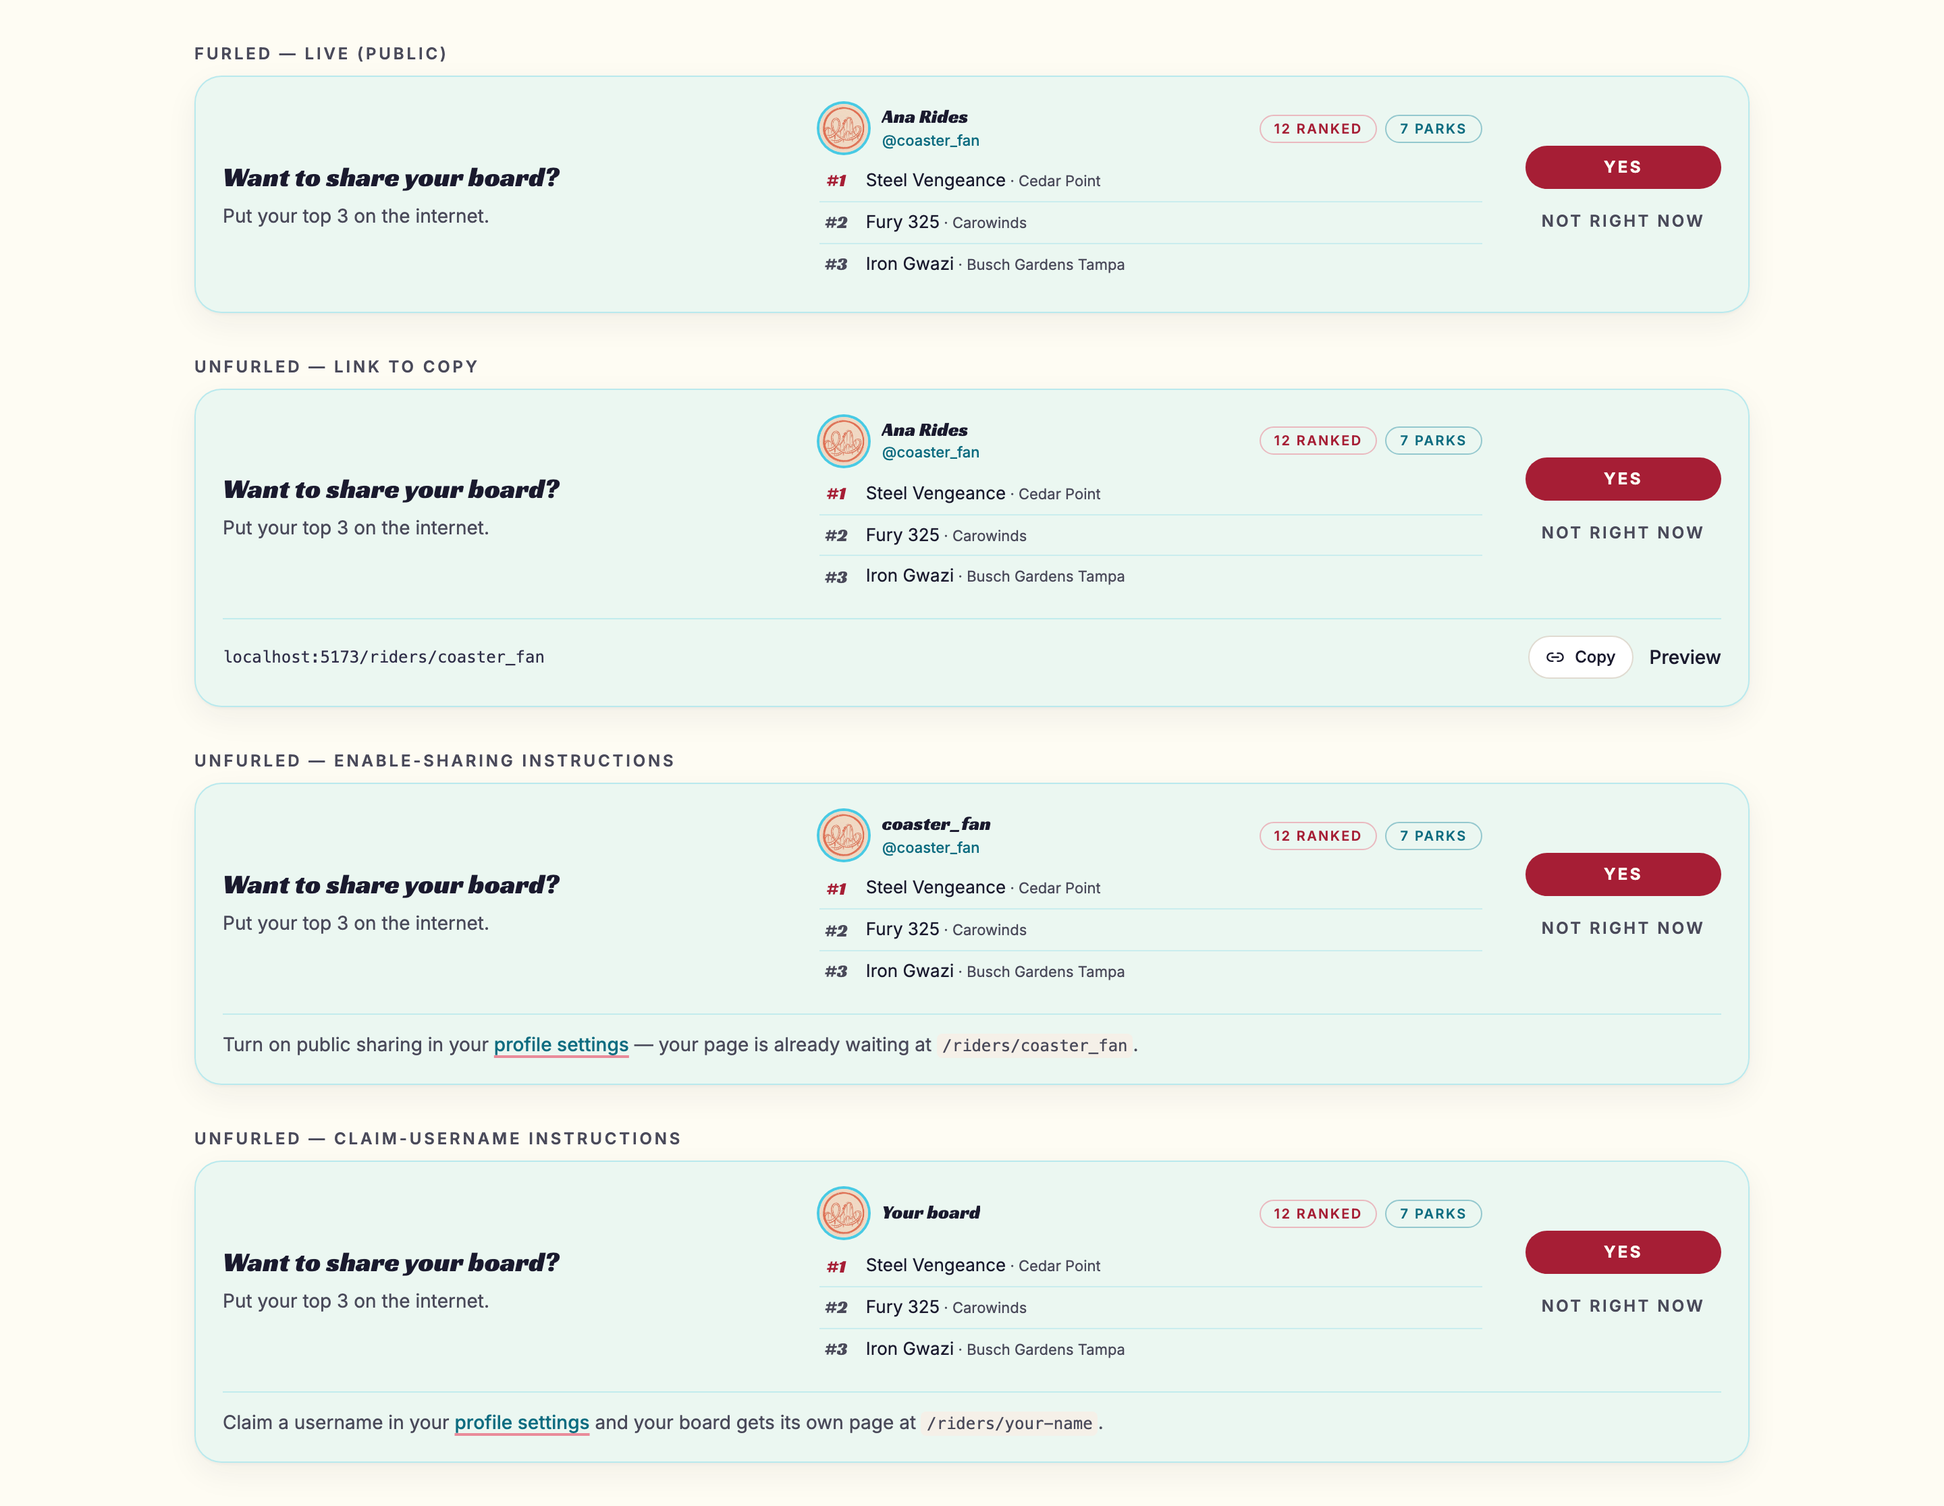
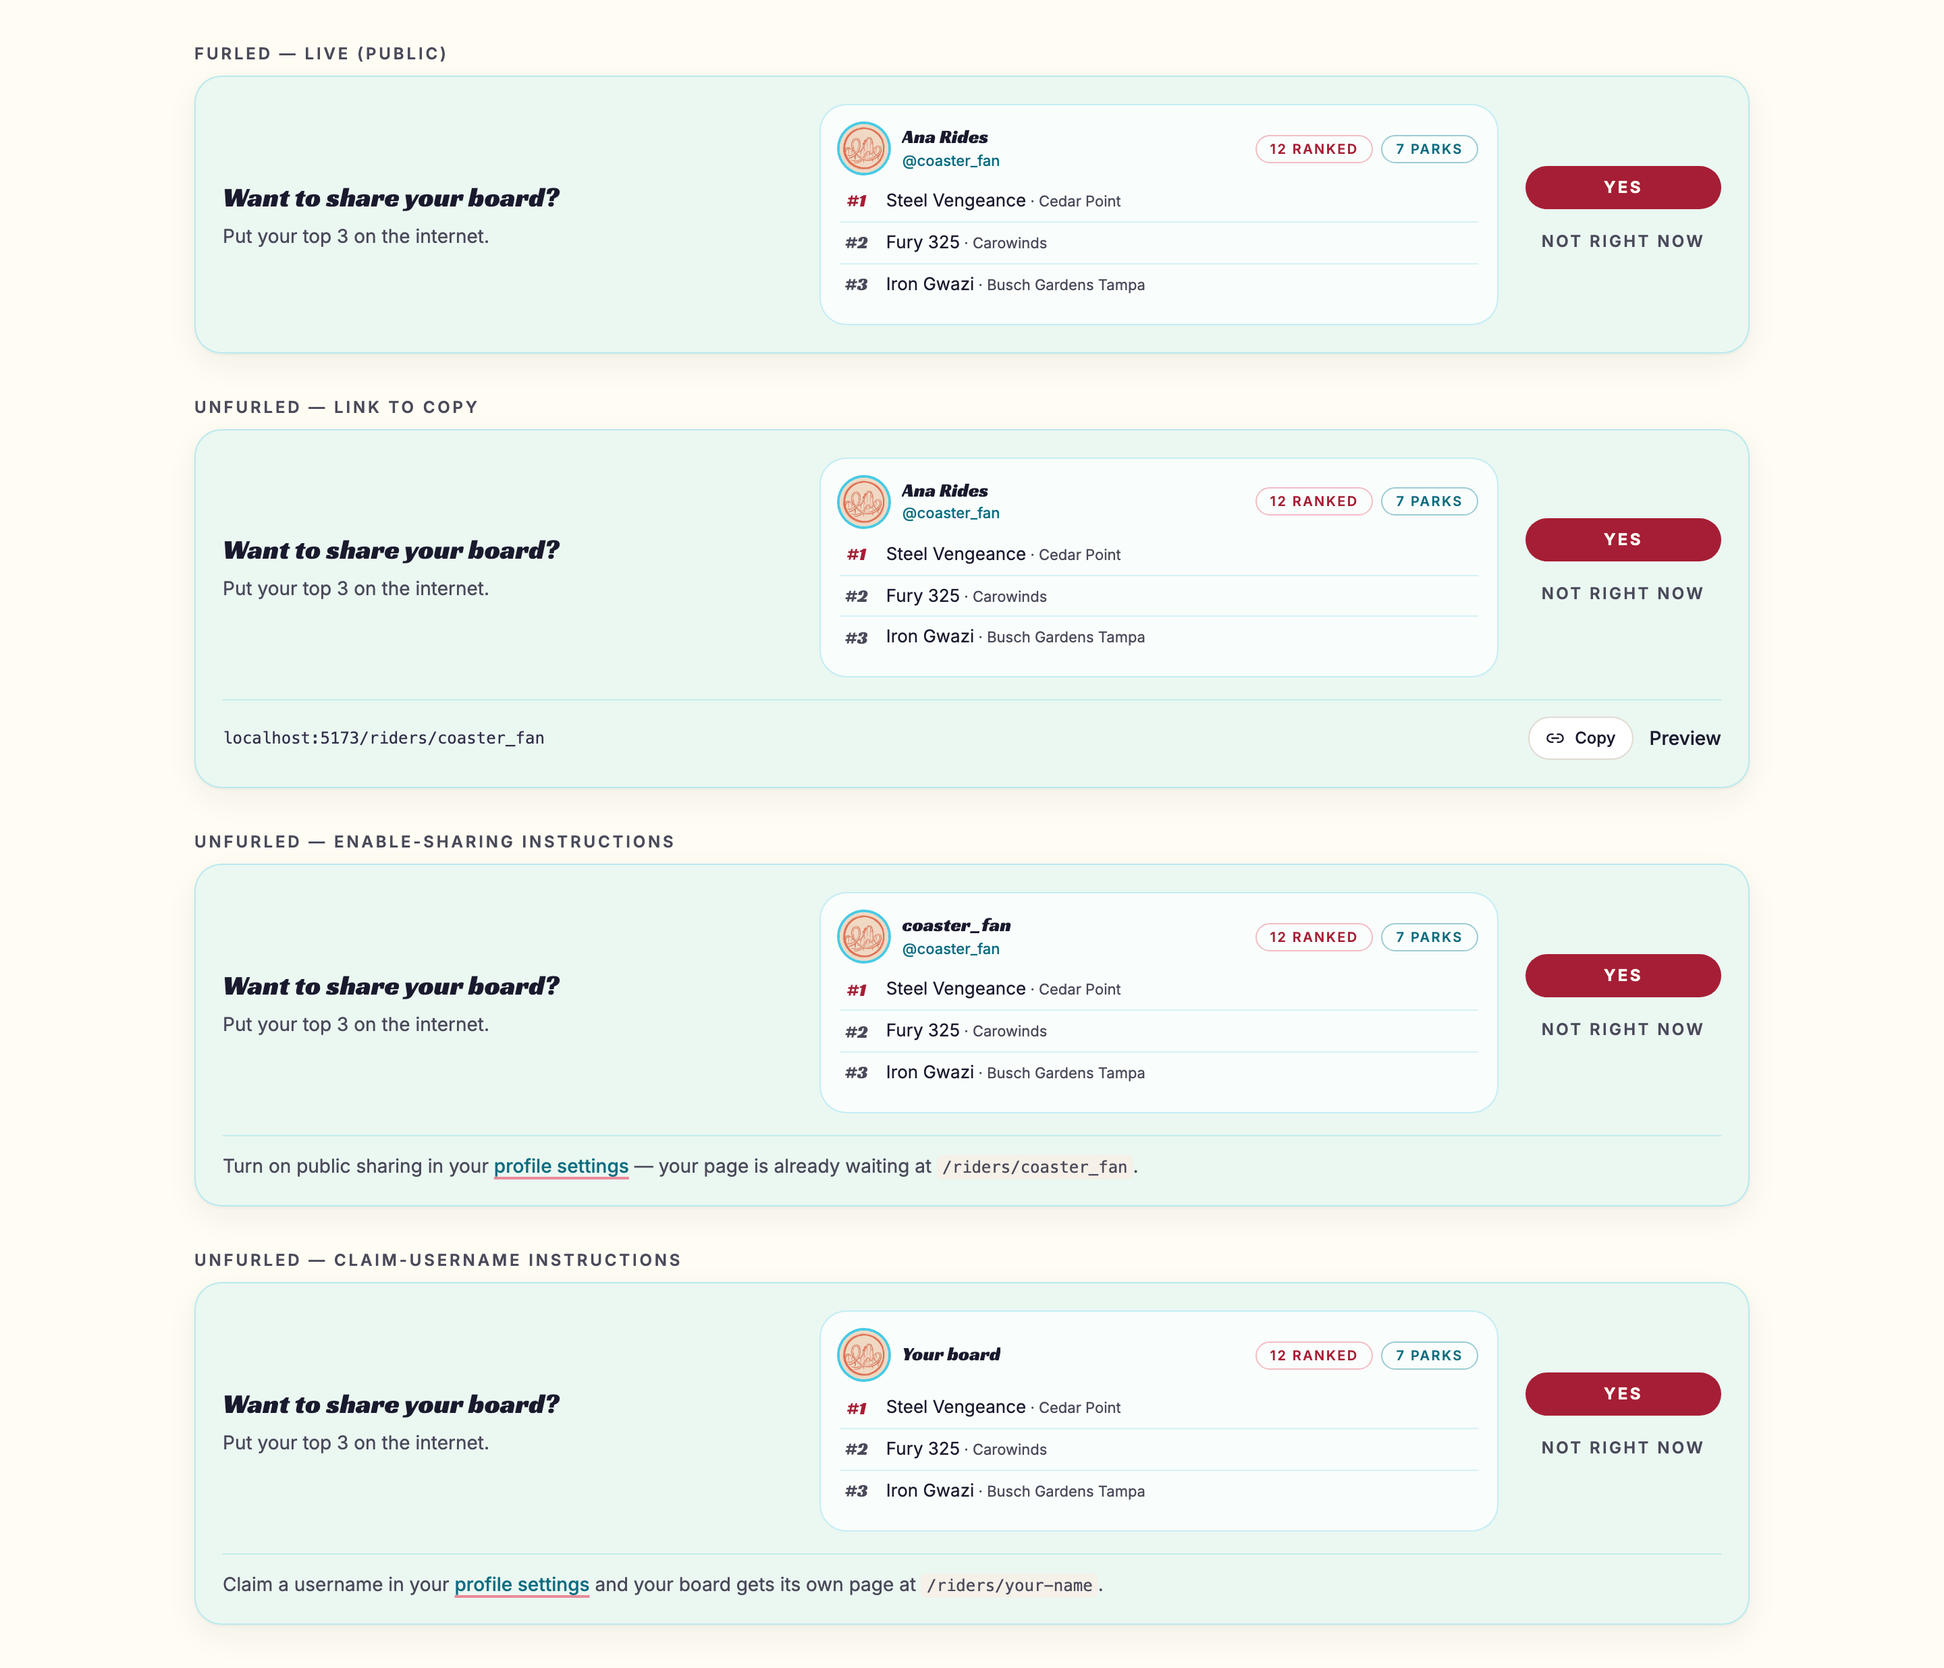
style: desktop-only outlined sub-card for share-nudge skeleton
Micro adjustments: the middle column gains its own outlined card feel
on desktop (sm:border-accent/30 sm:bg-surface-bright/70) and the
column gap tightens x-8 -> x-5, pulling the skeleton ~12px left to
reduce the dead zone. All new classes are sm:-prefixed, so the mobile
layout is pixel-identical. Preview shots refreshed.

diff --git a/app/src/components/ShareNudgeBanner.tsx b/app/src/components/ShareNudgeBanner.tsx
@@ -60,7 +60,10 @@ export default function ShareNudgeBanner({
       className="rounded-xl border border-accent/30 bg-accent/10 p-4 shadow-panel sm:p-5"
       data-testid="share-nudge-banner"
     >
-      <div className="flex flex-wrap items-center gap-x-8 gap-y-4">
+      {/* Desktop only: tighten the left↔middle dead zone and give the middle
+          column its own outlined card feel; mobile stacks unwrapped and keeps
+          the rows directly on the tint. */}
+      <div className="flex flex-wrap items-center gap-x-5 gap-y-4">
         <div className="min-w-0 flex-1 basis-52">
           <p className="display-heading text-xl leading-tight text-ink">
             Want to share your board?
@@ -68,7 +71,7 @@ export default function ShareNudgeBanner({
           <p className="mt-1.5 text-sm leading-snug text-muted">Put your top 3 on the internet.</p>
         </div>
 
-        <div className="min-w-0 flex-1 basis-72">
+        <div className="min-w-0 flex-1 basis-72 sm:rounded-xl sm:border sm:border-accent/30 sm:bg-surface-bright/70 sm:p-3.5">
           <div className="flex flex-wrap items-center gap-x-2.5 gap-y-1.5">
             <Avatar
               src={avatarUrl}

diff --git a/docs/PLAN.md b/docs/PLAN.md
@@ -32,7 +32,7 @@ A multi-user webapp where users rank the roller coasters they've ridden, and eve
 | Board meta + homepage rework (2026-09) | `/api/ranking` gains `last_recomputed_at` + `real_user_count` via a new `public_board_meta()` security-definer RPC (aggregate-only, anon-granted like `ranked_user_count()`; source: `cron_execution_logs` success row + profiles minus admins minus synthetic). Homepage: lockup scaled ~12%, TrackLine removed, status line always-rendered with skeletons (CLS slot `min-h-[60vh|65vh]`), gated user count (>50, desktop-only), `Live ●` popunder (hover shows / click pins; `last_recomputed_at` preferred), plain `About` link → `/about` stub, table rework (Country column dropped, GCI/CCI acronyms, white rank circles with display-font accent numerals + ink drop shadow on every rank, muted coral podium ramp 0.05/0.03/0.015, ~5% denser rows desktop+mobile, accent-tint rounded score pill, both layouts CSS-gated). Remaining open call: hero line placement A/B (mocked on the design board `/design.html`, dev-only). | Worker holds only the anon key (profiles/cron logs are RLS-locked; `coaster_ratings.updated_at` is first-insert stale), so one aggregate RPC is the only clean source; UI rework tracked as the homepage punchlist (§1–§8), final calls decided 2026-09-05. |
 | Full About + FAQ pages (2026-09) | `/about` rewritten from stub to full copy: open-source framing, layperson Bradley–Terry explainer (head-to-heads not stars, 100 = community average, per-rider influence normalization), personal backstory (VoteCoasters credit + link, "weekend project" gag), contribution asks (code/data/riding), `— pandeiro` handle sign-off. New `/faq` route (8 starter Q&As) linked from About + footer. Opt-in math disclosures (`MathDisclosure` component): collapsed by default, first open lazy-`import()`s **KaTeX** (+CSS/fonts) via a dynamic chunk — zero main-bundle cost; two inserts cover the BT probability model + MM update with anchor/λ rationale (from `packages/bt/src/mm.ts`) and the per-user weighting `w = 1/(n(n-1)/2)`; display equations sit in boxed rows that stack via `aligned` so 390px viewports don't clip. Tests assert collapsed default + lazy KaTeX render. | Normies get the plain-English story; the math is one sigma-pill click away. KaTeX over MathJax for bundle weight; disclosure content mirrors the real fit (not a simplified variant) so it can't drift from `packages/bt`. Deeper math treatment stays reserved for a future GH wiki page. |
 | Ranking-milestone share CTAs (2026-09, **removed**) | The 5/10-ranked milestone share CTAs on `/me` (`ShareListCard` + `lib/share-cta.ts`, per-milestone localStorage dismissal) are **scrapped** — `/me` stays a pure ranking surface. Share discovery remains where it belongs: `/me/profile` (URL display + copy link + opt-in toggle; `CopyLinkButton` extracted to its own component). Replaced days later by the idle-settled banner (next row) once the placement was rethought. | Just gets in the way on the primary ranking surface and doesn't drive shares; milestone framing ("5 ranked!") felt gamified-noisy rather than useful. |
-| Share nudge v2: idle-settled banner (2026-09) | A subtle, dismissible banner above the `/me` list — ONE small light accent-blue card (`bg-accent/10`, plain div not `Panel`, whose `bg-surface-bright` would win the cascade) laid out as **three tight columns**: ① the **"Want to share your board?"** question + one-line tagline ("Put your top 3 on the internet."), ② a **condensed skeleton of the rider share page** (cyan-ringed avatar, display-font name, cyan @handle, `N ranked` coral / `N parks` cyan outline pills, top-3 rows single-line with inline park names — park names ride along in the existing `useMyRides` embed via `parks(name, country)`; Racing Sans One `#N` ranks, `#1` coral, #2/#3 muted) to keep banner height constrained, ③ **YES** (crimson pill) / **NOT RIGHT NOW** (ghost, dismisses). YES **unfurls** (animated `animate-unfurl`) a full-width divider row: the rider URL as plain protocol-stripped mono text + Copy (full URL) + Preview when public, else profile-settings instructions ("Turn on public sharing… your page is already waiting at `/riders/{username}`"); the no-username branch stays inside the same unfurl (signup collects a username, but `handle_new_user()` deliberately falls back to `username = NULL` on unique-violation signup races — those users claim later). On mobile only, the banner renders between the page title and the full-width Import list button (flex-wrap ordering), keeping Import adjacent to the search/ranking machinery; desktop keeps Import top-right. Eligibility is ONE server-side RPC, `share_nudge_eligibility()`, called only at the My Coasters mount (never the board or coaster/park detail pages, never a modal on load): `profiles.share_nudge_shown_at IS NULL` AND ranked_count ≥ 5 (floor — nobody's "settled" this early) AND last ranked-ride edit ≥ 48h idle (settled, not mid-session tweaking). The RPC decides AND claims atomically — claim is `UPDATE profiles SET share_nudge_shown_at = now() WHERE id = auth.uid() AND share_nudge_shown_at IS NULL`, returning `found` as `eligible`, so multi-tab/multi-mount races collapse to exactly one banner ever. Dismiss is session-local UI state; no "dismissed" write exists. Data: one nullable column `profiles.share_nudge_shown_at`, written only by the RPC (deliberately kept off the client update-column whitelist). `user_rides.updated_at` was UPDATE-trigger-only (rank changes), leaving imported/once-ranked rows NULL forever → the trigger now stamps INSERTs too, plus a one-time backfill (`update user_rides set updated_at = now() where updated_at is null`) whose `now()` baseline is an honest conservative floor (long-idle lists become eligible ~48h post-deploy, nobody is misclassified as recently active). Client: `useShareNudge` (`staleTime: Infinity` — repeat mounts reuse the session's verdict instead of re-calling the claiming RPC). | The milestone card got in the way; idle ≥48h targets "settled" riders and never interrupts an active session; one-shot + local dismiss keeps it subtle; the single accent-blue card borrows the OG card's composition (identity / top rows / url) at banner scale as a YES-gated preview, so the nudge advertises what sharing actually looks like without occupying the page. SCHEMA.md must be regenerated post-merge (generator reads the live DB). |
+| Share nudge v2: idle-settled banner (2026-09) | A subtle, dismissible banner above the `/me` list — ONE small light accent-blue card (`bg-accent/10`, plain div not `Panel`, whose `bg-surface-bright` would win the cascade) laid out as **three tight columns**: ① the **"Want to share your board?"** question + one-line tagline ("Put your top 3 on the internet."), ② a **condensed skeleton of the rider share page** (cyan-ringed avatar, display-font name, cyan @handle, `N ranked` coral / `N parks` cyan outline pills, top-3 rows single-line with inline park names — park names ride along in the existing `useMyRides` embed via `parks(name, country)`; Racing Sans One `#N` ranks, `#1` coral, #2/#3 muted) in its own outlined sub-card on desktop (`sm:border-accent/30 sm:bg-surface-bright/70`, mobile rows stay directly on the tint) to keep banner height constrained; column gap tightened (`gap-x-5`) so the middle card doesn't float right of the question, ③ **YES** (crimson pill) / **NOT RIGHT NOW** (ghost, dismisses). YES **unfurls** (animated `animate-unfurl`) a full-width divider row: the rider URL as plain protocol-stripped mono text + Copy (full URL) + Preview when public, else profile-settings instructions ("Turn on public sharing… your page is already waiting at `/riders/{username}`"); the no-username branch stays inside the same unfurl (signup collects a username, but `handle_new_user()` deliberately falls back to `username = NULL` on unique-violation signup races — those users claim later). On mobile only, the banner renders between the page title and the full-width Import list button (flex-wrap ordering), keeping Import adjacent to the search/ranking machinery; desktop keeps Import top-right. Eligibility is ONE server-side RPC, `share_nudge_eligibility()`, called only at the My Coasters mount (never the board or coaster/park detail pages, never a modal on load): `profiles.share_nudge_shown_at IS NULL` AND ranked_count ≥ 5 (floor — nobody's "settled" this early) AND last ranked-ride edit ≥ 48h idle (settled, not mid-session tweaking). The RPC decides AND claims atomically — claim is `UPDATE profiles SET share_nudge_shown_at = now() WHERE id = auth.uid() AND share_nudge_shown_at IS NULL`, returning `found` as `eligible`, so multi-tab/multi-mount races collapse to exactly one banner ever. Dismiss is session-local UI state; no "dismissed" write exists. Data: one nullable column `profiles.share_nudge_shown_at`, written only by the RPC (deliberately kept off the client update-column whitelist). `user_rides.updated_at` was UPDATE-trigger-only (rank changes), leaving imported/once-ranked rows NULL forever → the trigger now stamps INSERTs too, plus a one-time backfill (`update user_rides set updated_at = now() where updated_at is null`) whose `now()` baseline is an honest conservative floor (long-idle lists become eligible ~48h post-deploy, nobody is misclassified as recently active). Client: `useShareNudge` (`staleTime: Infinity` — repeat mounts reuse the session's verdict instead of re-calling the claiming RPC). | The milestone card got in the way; idle ≥48h targets "settled" riders and never interrupts an active session; one-shot + local dismiss keeps it subtle; the single accent-blue card borrows the OG card's composition (identity / top rows / url) at banner scale as a YES-gated preview, so the nudge advertises what sharing actually looks like without occupying the page. SCHEMA.md must be regenerated post-merge (generator reads the live DB). |
 | Email stack: Resend SMTP + branded templates (2026-09) | Auth email leaves via **Resend SMTP** (Supabase Auth custom SMTP; sender `ops@coasterrank.app` "CoasterRank Ops"; free tier 100/day). Branded, text-first HTML templates for **confirm-signup / magic-link+OTP / reset-password / invite** live in **`supabase/email-templates/`** as the reviewed source of truth and are applied with `scripts` `sync-email-templates` (Management API `PATCH config/auth` of **only** `mailer_subjects_*` + `mailer_templates_*_content`; dry-run default, `--apply` verifies by re-read). Design system: table layout, inline CSS only, cream canvas + ink text + cyan CTA pill + coral lap-bar accent, single small mark image (alt-text graceful when Gmail blocks images), hidden preheaders, plain-link fallback, reply-friendly footer. SPA wiring: `/forgot-password` → `/reset-password` (recovery round-trip preserves `?next` deep links), "Email me a sign-in link" with 8-digit code entry (`signInWithOtp` + `verifyOtp`), invited banner on `/login?invited=1`, profile set/change-password panel; **admin invite** via `admin-users` POST `{action:'invite'}` (fixed prod redirect; GoTrue creates the unconfirmed user, trigger bootstraps the profile — invitees start passwordless). Expiry copy coupled to dashboard `mailer_otp_exp=3600` / `mailer_otp_length=8`. Deferred: submission-reviewed notifications, digests, Resend bounce/complaint webhooks, non-auth transactional mail via Resend API. **User-to-user invites designed but deferred**: `invites` table (inviter, invitee email, accepted_at, invitee_id) + `invite_within_cap()` (~5 pending + modest lifetime cap, mirroring `submission_within_cap()`), confirmed-email gate on the inviter, fixed email copy (no custom message), admin visibility + cancel (= delete the unconfirmed row), kill-switch secret, `profiles.referred_by` fed from invite metadata via `handle_new_user()`. Rationale: the abuse risk is not in-app spam — invites email *third parties from coasterrank.app*, and invite abuse burns the sender reputation ALL auth email rides on (Resend pauses ~0.08% complaints; the free tier's 100/day is shared with auth email). | Default Supabase emails are rate-limited (2/hr) and unbranded; Resend free tier + validated domain gives deliverability + trust. Templates in git = reviewable diffs instead of dashboard click-ops (config isn't migratable). Passwordless sign-in makes invited accounts workable from day one and kills most "forgot password" pain; reset flow still required as the escape hatch. |
 
 ## 3. Architecture

diff --git a/docs/previews/share-nudge/README.md b/docs/previews/share-nudge/README.md
@@ -7,7 +7,7 @@ Screenshots for the idle-settled share nudge (PLAN §2 "Share nudge v2"), captur
 
 | File | Shows |
 | --- | --- |
-| `share-nudge-states-desktop.png` | The banner's states, desktop: furled (three columns — "Want to share your board?" / condensed share-page skeleton / YES + NOT RIGHT NOW), then YES unfurled three ways — the rider link (copy + preview), enable-sharing instructions, claim-username instructions. One light accent-blue card; the skeleton's top-3 rows sit directly on the tint with Racing Sans One ranks (#1 coral). |
+| `share-nudge-states-desktop.png` | The banner's states, desktop: furled (three columns — "Want to share your board?" / condensed share-page skeleton / YES + NOT RIGHT NOW), then YES unfurled three ways — the rider link (copy + preview), enable-sharing instructions, claim-username instructions. One light accent-blue card; on desktop the skeleton sits in its own outlined sub-card, the top-3 rows carry Racing Sans One ranks (#1 coral). |
 | `share-nudge-states-mobile.png` | Same states at 390px — columns stack (question, skeleton, button row, unfurl) full-width. |
 | `share-nudge-placement-desktop.png` | The furled banner in context on `/me`, below the header row (Import list stays top-right). |
 | `share-nudge-placement-mobile.png` | Same placement at 390px — the banner sits above the full-width Import list button, keeping Import adjacent to the search bar and ranking table. |
